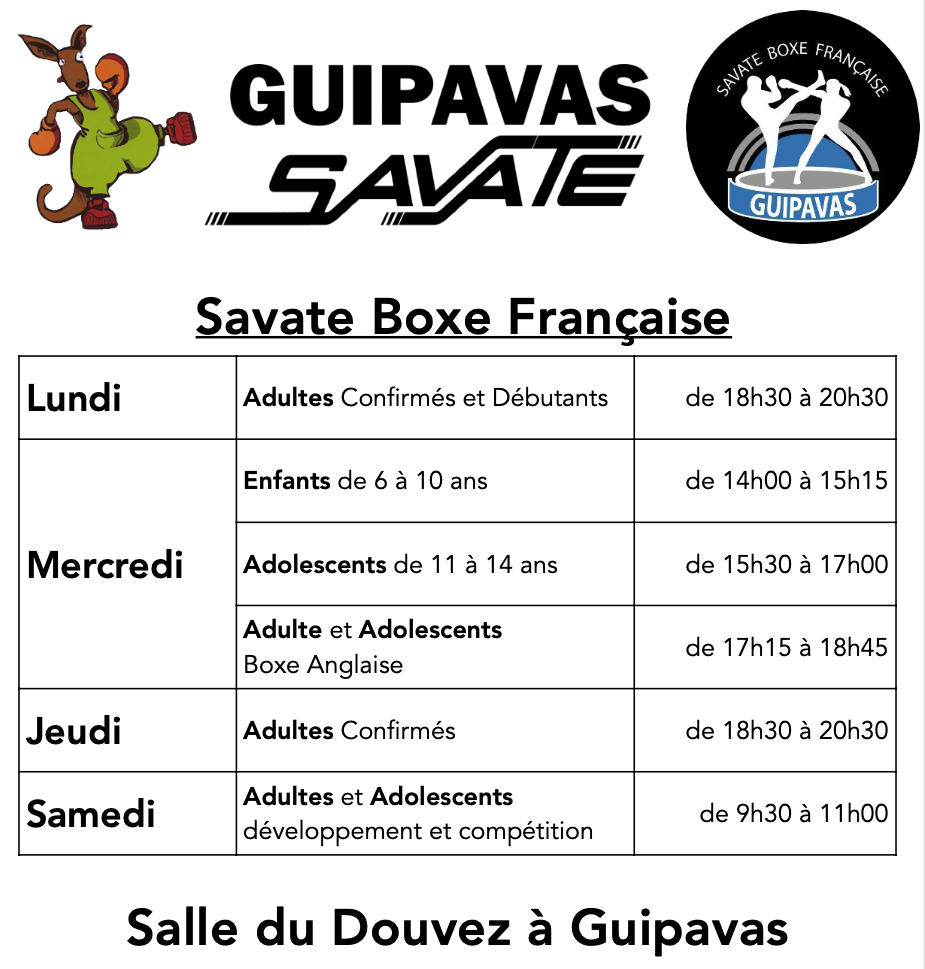
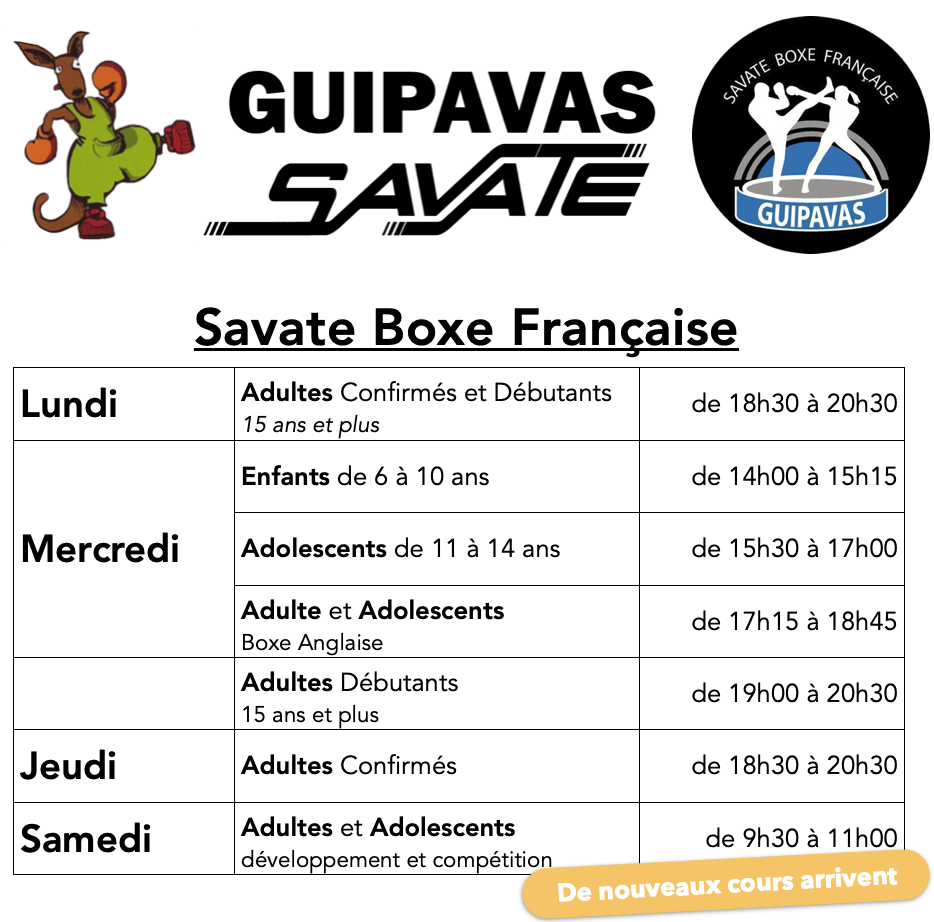
Mise à jour des horaires

Changed region(s): [[0.0, 0.0, 1.0, 1.0], [0.0, 0.0304, 0.2119, 0.2733]]

diff --git a/_includes/horaires.html b/_includes/horaires.html
@@ -3,25 +3,90 @@
 
     <p class="menu-label">Lundi</p>
     <ul class="menu-list">
-        <li><a style="cursor: default"><span class="has-text-weight-bold">18h30 à 20h30</span><br />Adultes</a></li>
+        <li>
+            <a style="cursor: default">
+                <span class="has-text-weight-bold">18h30 à 20h30</span>
+                <br/>
+                Adultes (15 ans et plus)
+                <br />
+                <span class="tag is-rounded is-warning">Savate</span>
+                <span class="tag is-rounded is-link is-light">Tous niveaux</span>
+            </a>
+
+        </li>
     </ul>
 
     <p class="menu-label">Mercredi</p>
     <ul class="menu-list">
-        <li><a style="cursor: default"><span class="has-text-weight-bold">14h à 15h15</span><br />De 6 à 10 ans</a></li>
-        <li><a style="cursor: default"><span class="has-text-weight-bold">15h30 à 17h</span><br />De 11 à 14 ans</a></li>
-        <li><a style="cursor: default"><span class="has-text-weight-bold">17h15 à 18h45</span><br />Boxe anglaise</a></li>
+        <li>
+            <a style="cursor: default">
+                <span class="has-text-weight-bold">14h à 15h15</span>
+                <br />
+                Enfants de 6 à 10 ans
+                <br />
+                <span class="tag is-rounded is-warning">Savate</span>
+                <span class="tag is-rounded is-link is-light">Tous niveaux</span>
+            </a>
+        </li>
+        <li>
+            <a style="cursor: default">
+                <span class="has-text-weight-bold">15h30 à 17h</span>
+                <br />
+                Adolescents de 11 à 14 ans
+                <br />
+                <span class="tag is-rounded is-warning">Savate</span>
+                <span class="tag is-rounded is-link is-light">Tous niveaux</span>
+            </a>
+        </li>
+        <li>
+            <a style="cursor: default">
+                <span class="has-text-weight-bold">17h15 à 18h45</span>
+                <br />
+                à partir de 13 ans
+                <br />
+                <span class="tag is-rounded is-success">Anglaise</span>
+                <span class="tag is-rounded is-link is-light">Tous niveaux</span>
+            </a>
+        </li>
+        <li>
+            <a style="cursor: default"><span class="has-text-weight-bold">19h00 à 20h30</span>
+                <br/>
+                Adultes (15 ans et plus)
+                <br/>
+                <span class="tag is-rounded is-warning">Savate</span>
+                <span class="tag is-rounded is-light is-success">Débutants</span>
+            </a>
+        </li>
     </ul>
 
     <p class="menu-label">Jeudi</p>
     <ul class="menu-list">
-        <li><a style="cursor: default"><span class="has-text-weight-bold">18h30 à 20h30</span><br />Adultes</a></li>
+        <li>
+            <a style="cursor: default">
+                <span class="has-text-weight-bold">18h30 à 20h30</span>
+                <br />
+                Adultes (15 ans et plus)
+                <br/>
+                <span class="tag is-rounded is-warning">Savate</span>
+                <span class="tag is-rounded is-light is-danger">Confirmés</span>
+            </a>
+
+        </li>
     </ul>
 
     <p class="menu-label">Samedi</p>
     <ul class="menu-list">
         <li>
-            <a style="cursor: default"><span class="has-text-weight-bold">9h30 à 11h00</span><br />Compétiteurs <br/> Adultes et Ados</a></li>
+            <a style="cursor: default">
+                <span class="has-text-weight-bold">9h30 à 11h00</span>
+                <br/>
+                à partir de 13 ans
+                <br/>
+                <span class="is-size-7">Développement et préparation</span>
+                <br/>
+                <span class="tag is-rounded is-warning">Savate</span>
+                <span class="tag is-rounded is-link is-light">Tous niveaux</span>
+            </a></li>
     </ul>
 
     <p class="menu-label">Salle</p>
